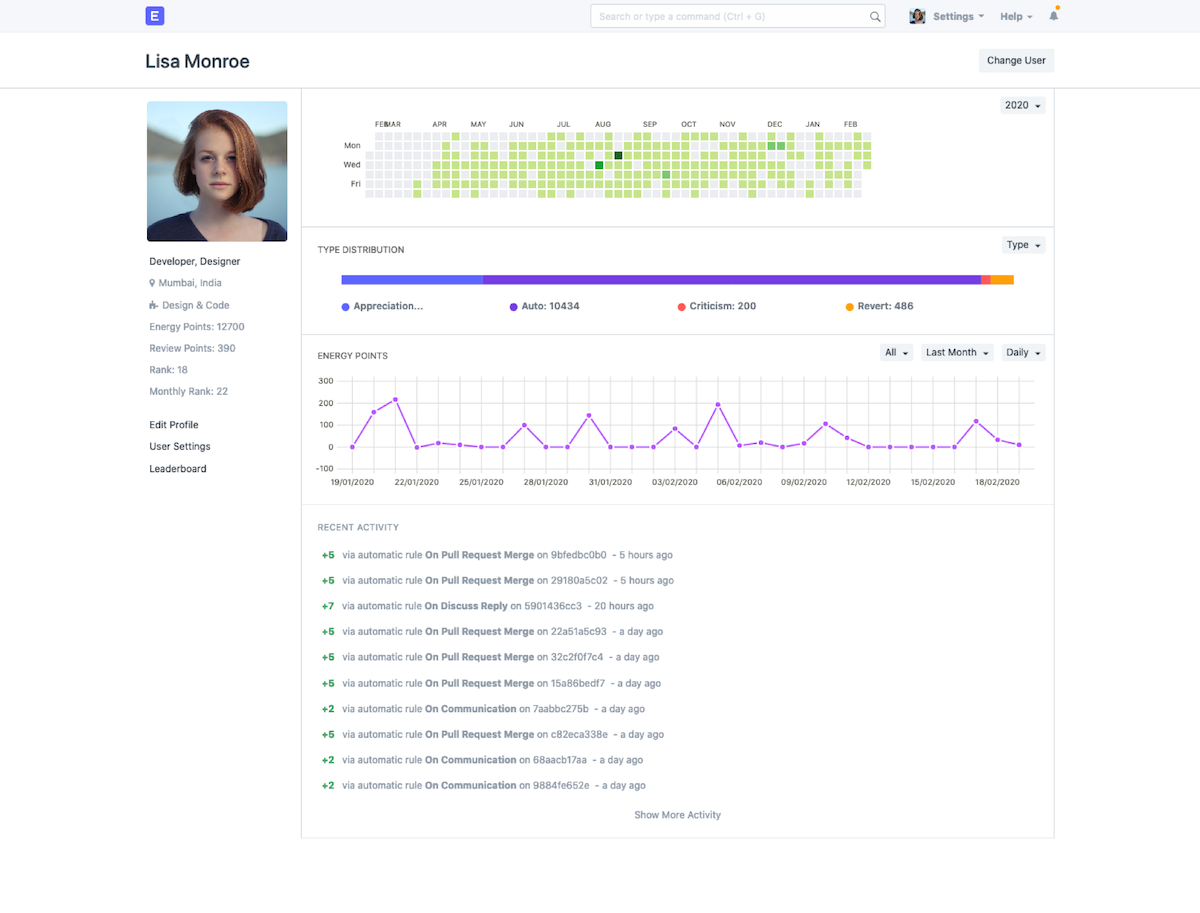
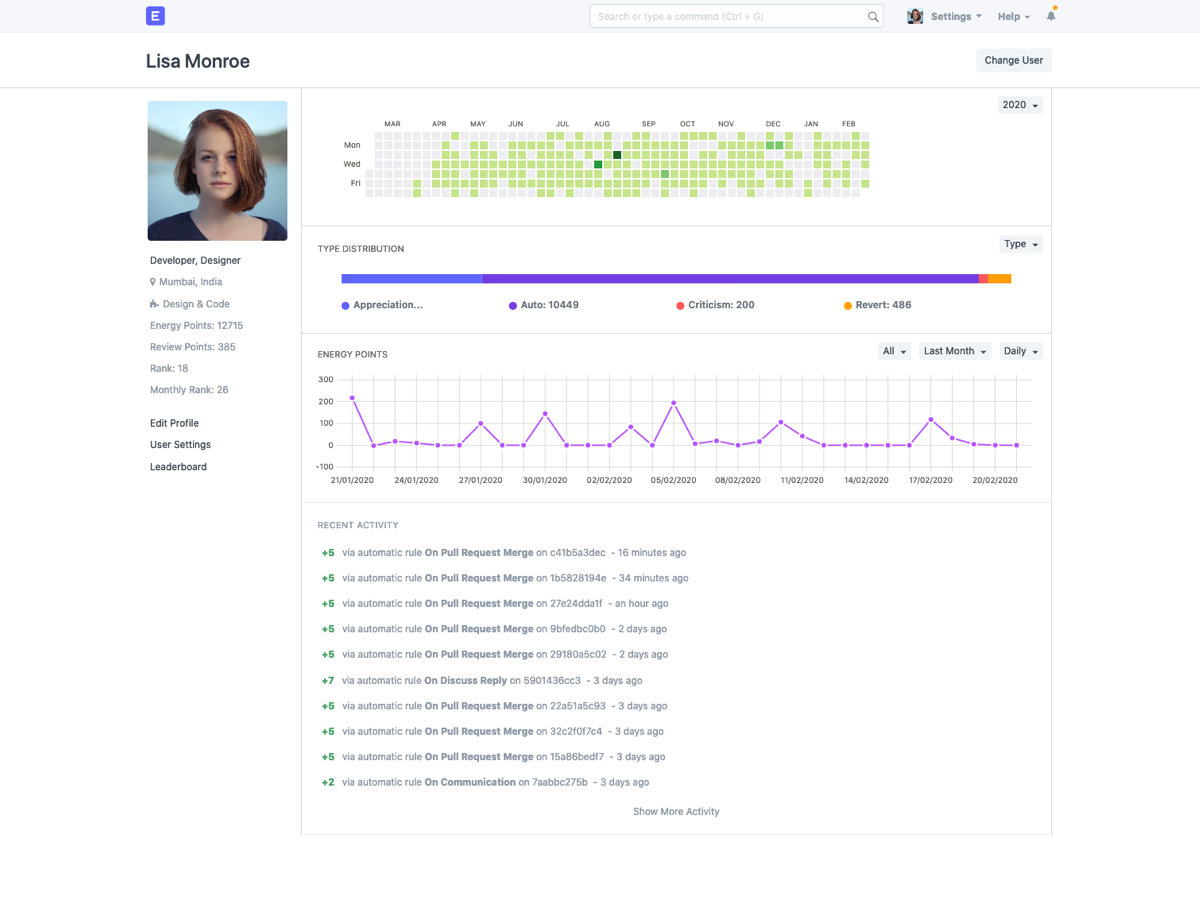
chore: update screenshots (#706)
* feat: updated screenshots

* chore: rename sales order

diff --git a/erpnext_com/www/index.html b/erpnext_com/www/index.html
@@ -47,7 +47,7 @@
 				<div class="viewport slide" style="background-image:url('/assets/erpnext_com/img/home/accounts-report.png');"></div>
 				<div class="viewport slide" style="background-image:url('/assets/erpnext_com/img/home/profile.png');"></div>
 				<div class="viewport slide" style="background-image:url('/assets/erpnext_com/img/home/gantt.png');"></div>
-				<div class="viewport slide" style="background-image:url('/assets/erpnext_com/img/home/print.png');"></div>
+				<div class="viewport slide" style="background-image:url('/assets/erpnext_com/img/home/sales-order.png');"></div>
 			</div>
 			<div class="base"></div>
 			<div class="notch"></div>
